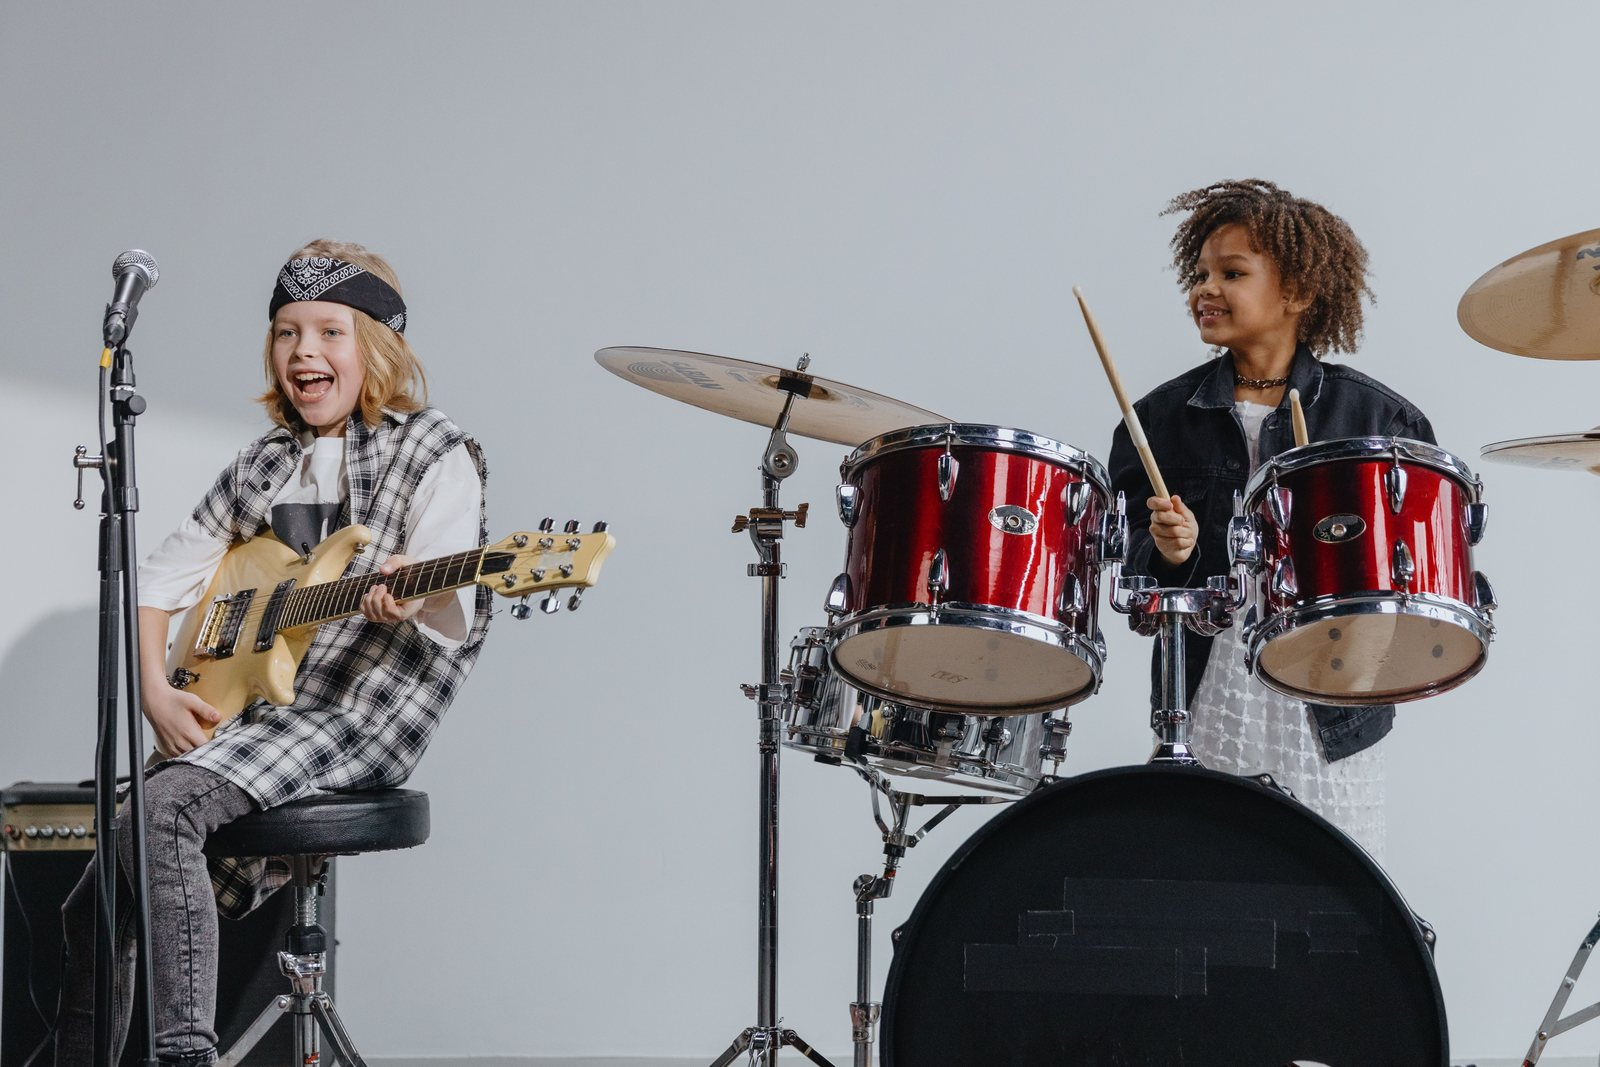
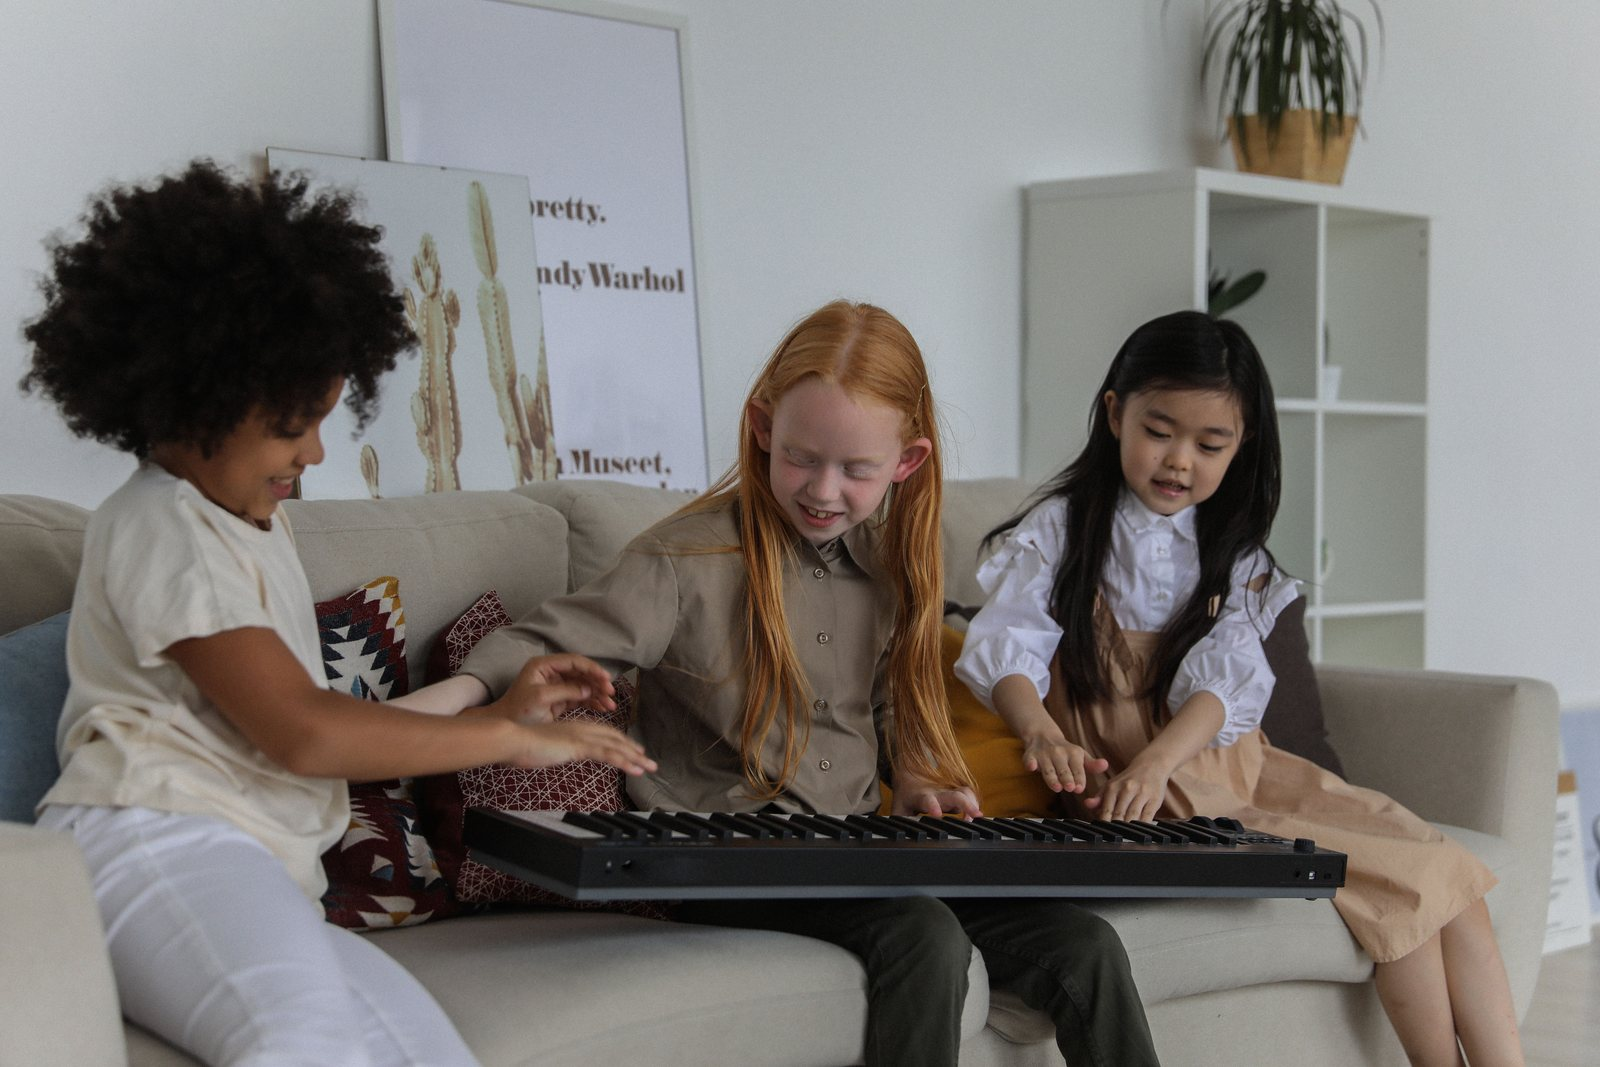
Swap the Guided Jam photo for three children at a keyboard
Closer to what the section actually describes. The studio shot had two
children on separate instruments; this one has them sharing one, which
is the "answer one another in rhythm" the copy talks about.

Already 3:2, so it only needed sizing. Same filename, so the markup
change is the alt text alone.

diff --git a/index.html b/index.html
@@ -735,7 +735,7 @@
 
         <div class="class-row reveal">
           <div class="class-media">
-            <img src="HarmonyAndHealth-guided-jam.jpg" alt="Two children playing electric guitar and drums together" loading="lazy">
+            <img src="HarmonyAndHealth-guided-jam.jpg" alt="Three children sharing a keyboard and playing together" loading="lazy">
           </div>
           <div class="class-info">
             <p class="class-age">Ages 5 to 11</p>
